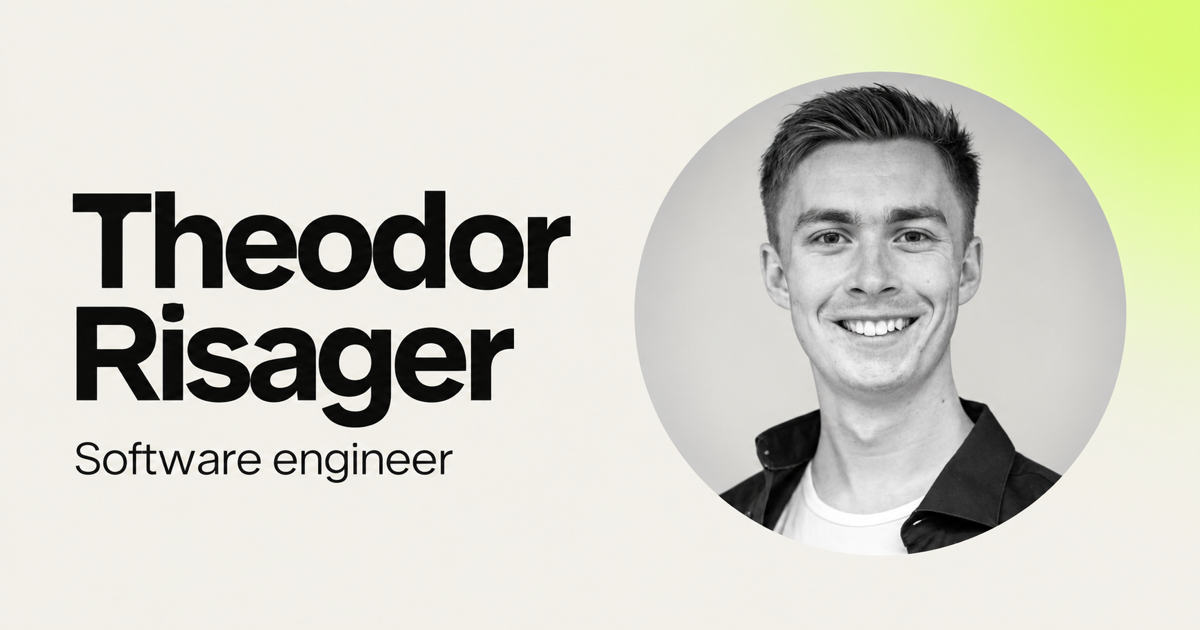
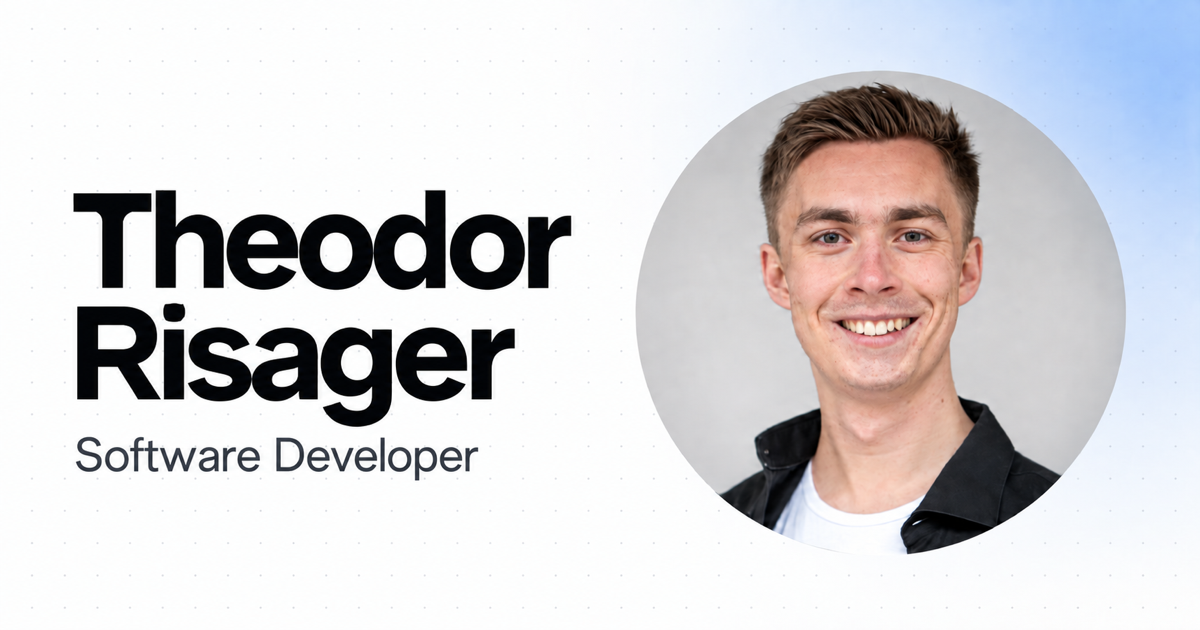
Refine site metadata and social preview
- Update SEO metadata and canonical URL
- Refresh Open Graph image and alt text

diff --git a/app/layout.tsx b/app/layout.tsx
@@ -3,6 +3,15 @@ import { Geist, Geist_Mono } from "next/font/google"
 
 import "./globals.css"
 
+const title = "Theodor Risager · Software Developer"
+const description =
+  "Theodor Risager is a software developer focused on AI-assisted development, automation, and developer tooling."
+const siteUrl =
+  process.env.NEXT_PUBLIC_SITE_URL ??
+  (process.env.VERCEL_PROJECT_PRODUCTION_URL
+    ? `https://${process.env.VERCEL_PROJECT_PRODUCTION_URL}`
+    : "http://localhost:3000")
+
 const geist = Geist({
   subsets: ["latin"],
   variable: "--font-geist-sans",
@@ -14,14 +23,30 @@ const geistMono = Geist_Mono({
 })
 
 export const metadata: Metadata = {
-  metadataBase: new URL(
-    process.env.NEXT_PUBLIC_SITE_URL ?? "http://localhost:3000"
-  ),
-  title: "Theodor Risager · Software Engineer",
-  description:
-    "Software engineer focused on AI-assisted development, automation, and developer tooling.",
+  metadataBase: new URL(siteUrl),
+  title,
+  description,
+  alternates: {
+    canonical: "/",
+  },
+  authors: [{ name: "Theodor Risager" }],
+  creator: "Theodor Risager",
+  openGraph: {
+    type: "website",
+    locale: "en_US",
+    url: "/",
+    siteName: "Theodor Risager",
+    title,
+    description,
+  },
+  robots: {
+    index: true,
+    follow: true,
+  },
   twitter: {
     card: "summary_large_image",
+    title,
+    description,
   },
 }
 
